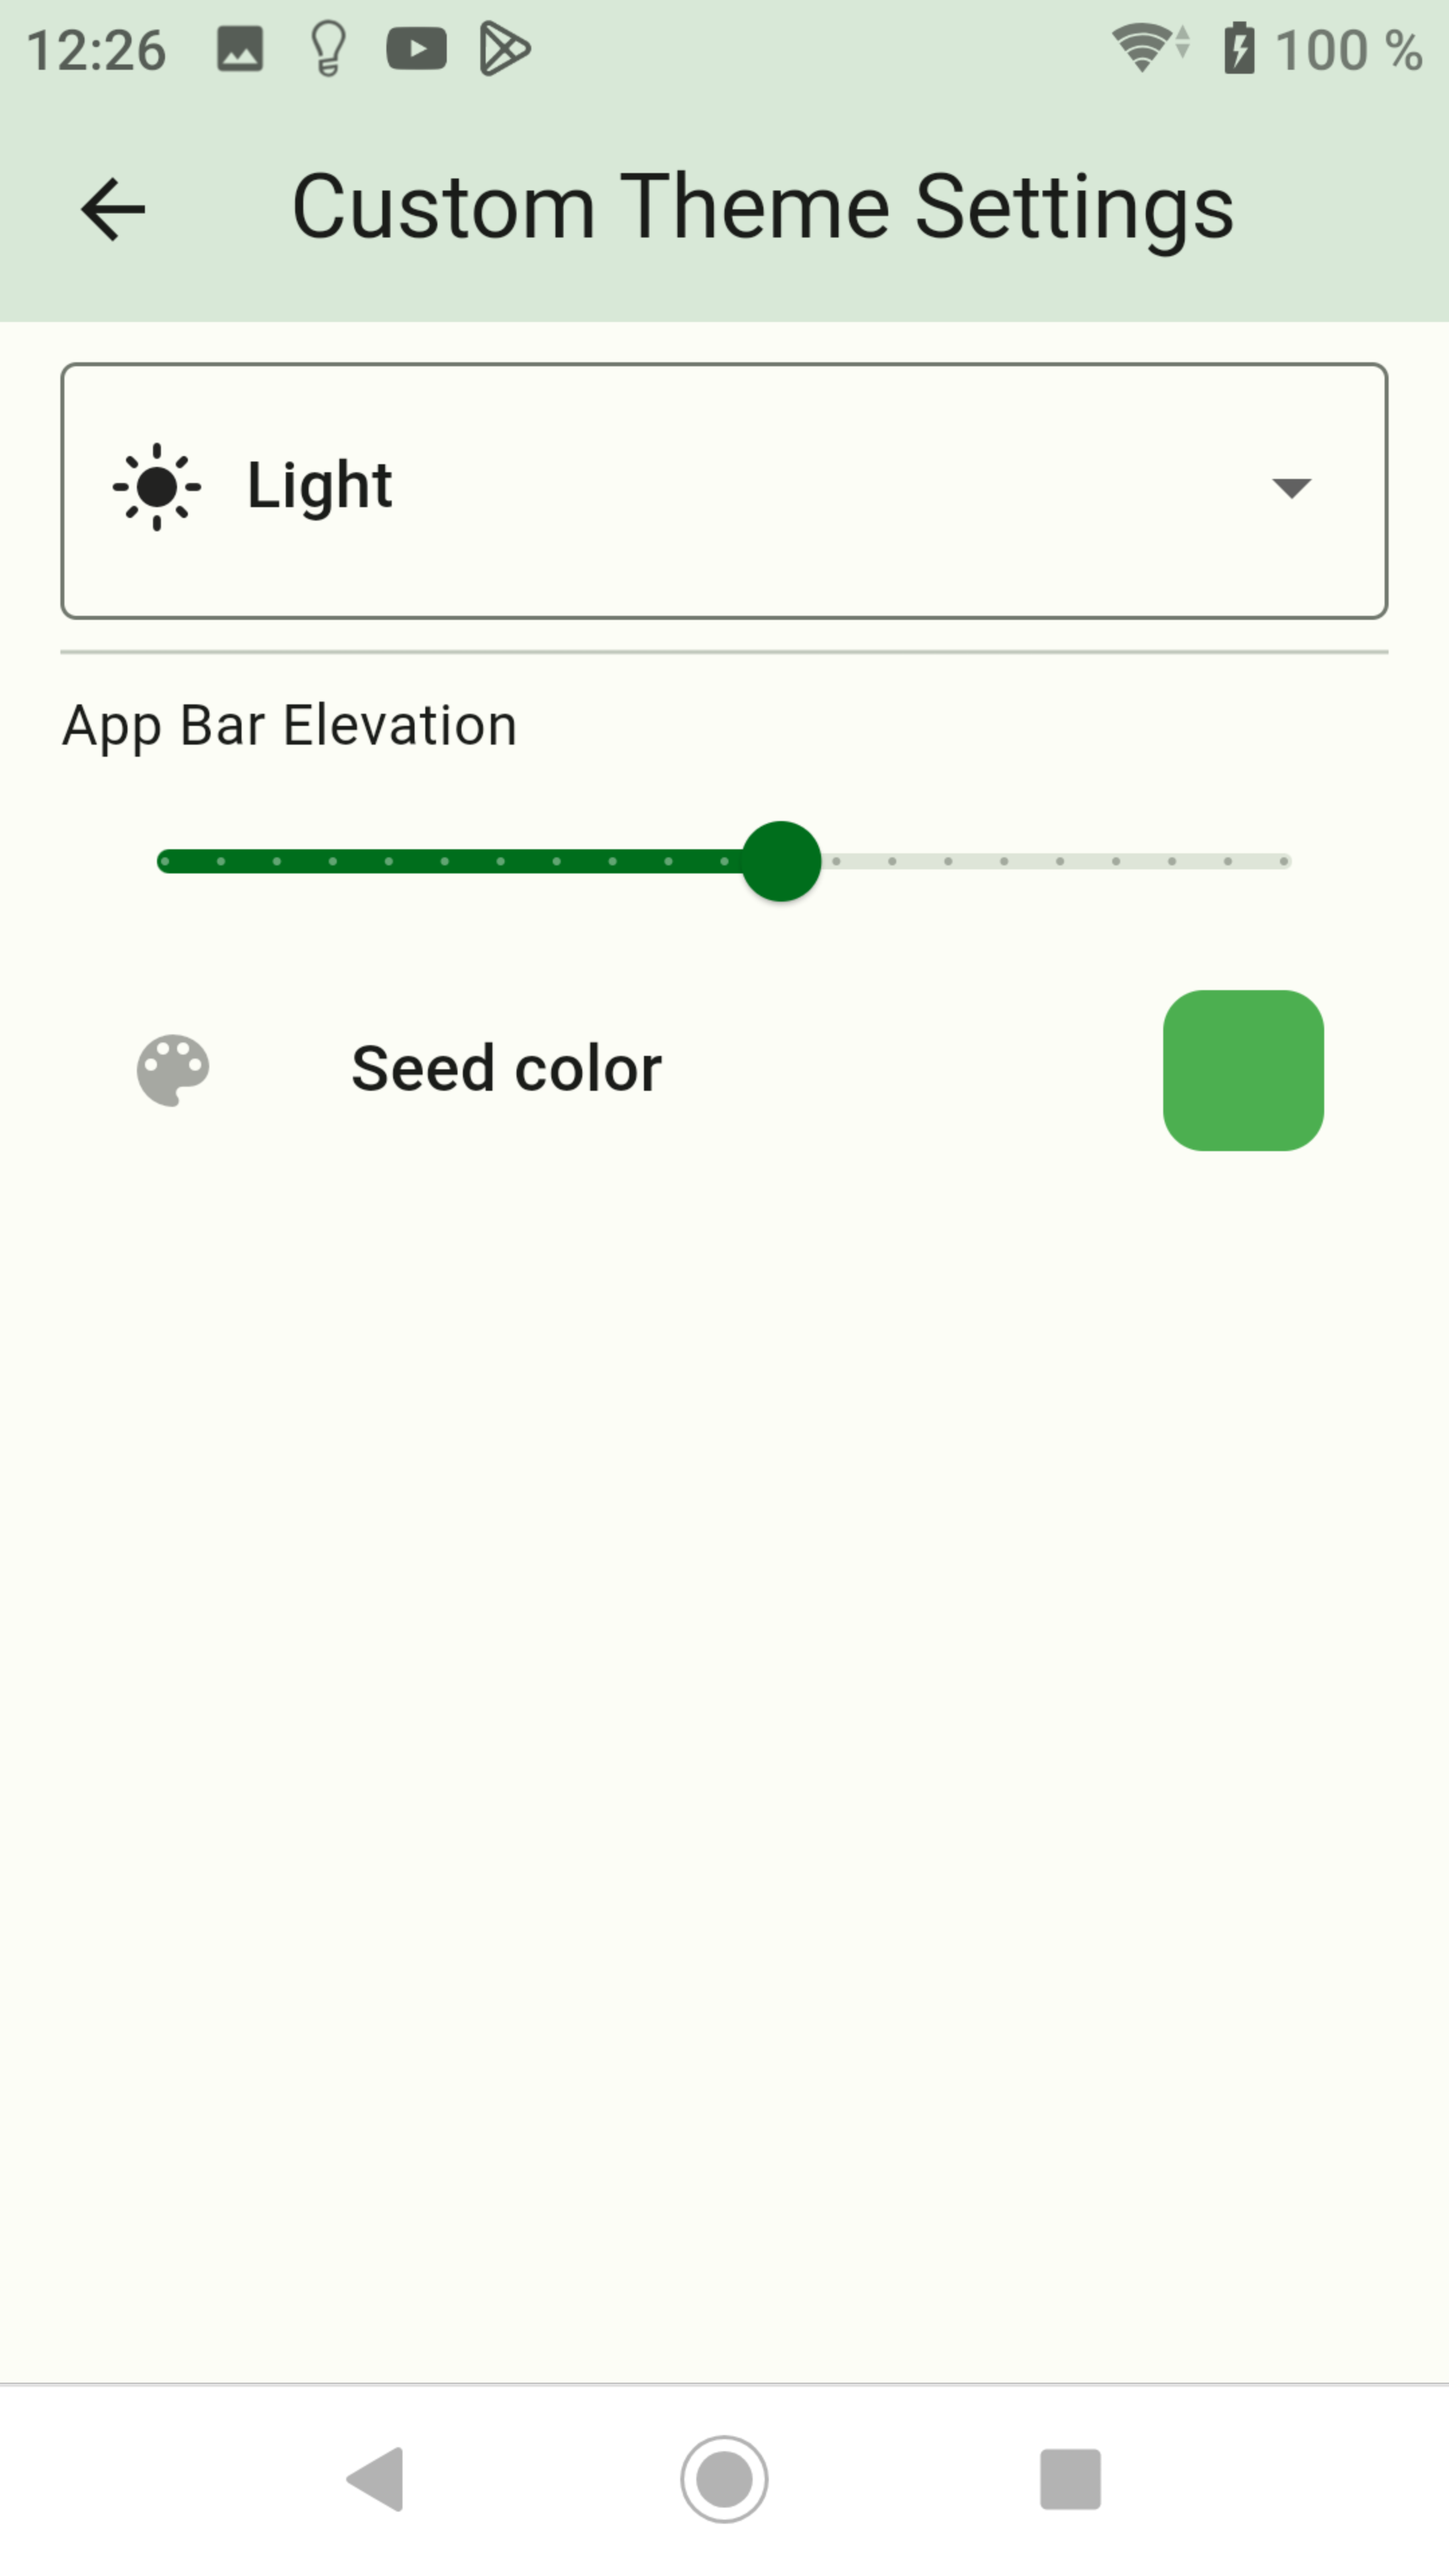
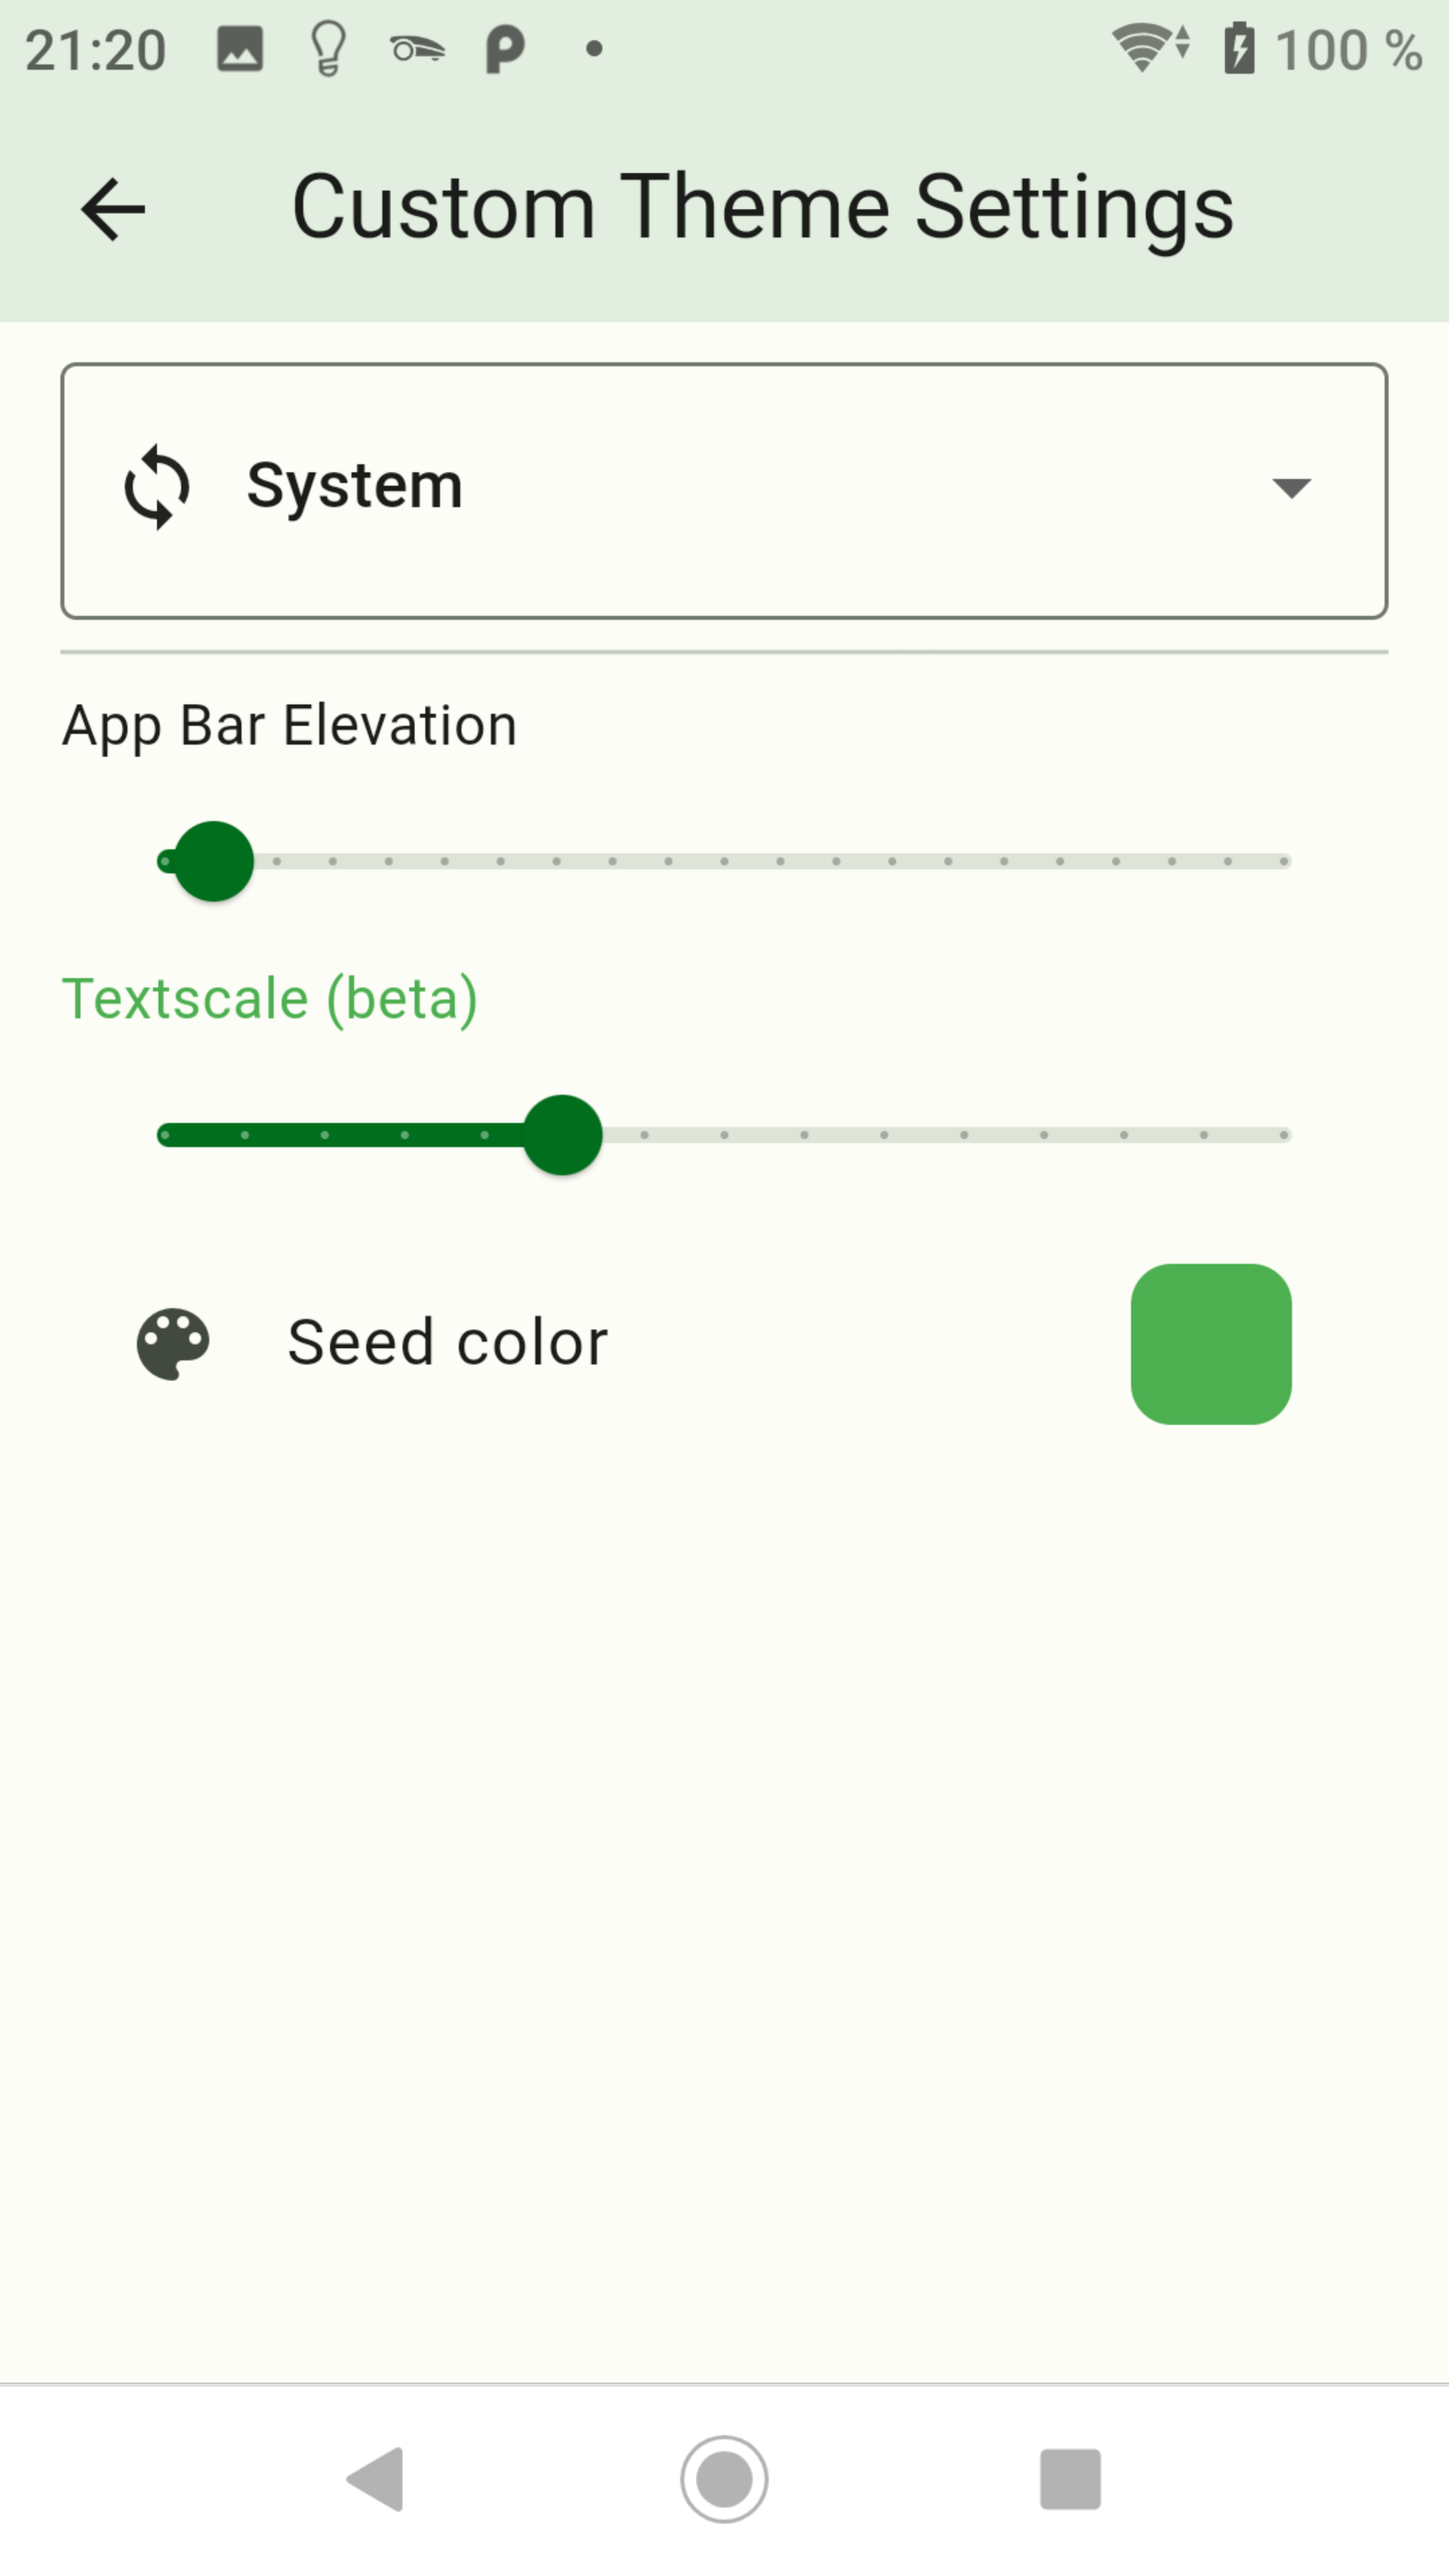
add Textscale

diff --git a/docs/de/custom.md b/docs/de/custom.md
@@ -10,6 +10,7 @@
 
 - Hier ist es möglich die Farbe vom Header und Switch zu ändern.
 - Mit `App bar Elevation` kann die Höhe vom Header bestimmt werden.
+- Mit `Textscale` kann die Schriftgröße eingestellt werden.
 
 ![app_theme_seetings.png](img/app_theme_seetings.png)
 

diff --git a/docs/en/custom.md b/docs/en/custom.md
@@ -10,6 +10,7 @@
 
 - Here it is possible to change the color of the header and switch.
 - With `App bar Elevation` the height of the header can be determined.
+- The font size can be set with `Textscale`.
 
 ![app_theme_seetings.png](img/../../de/img/app_theme_seetings.png)
 
